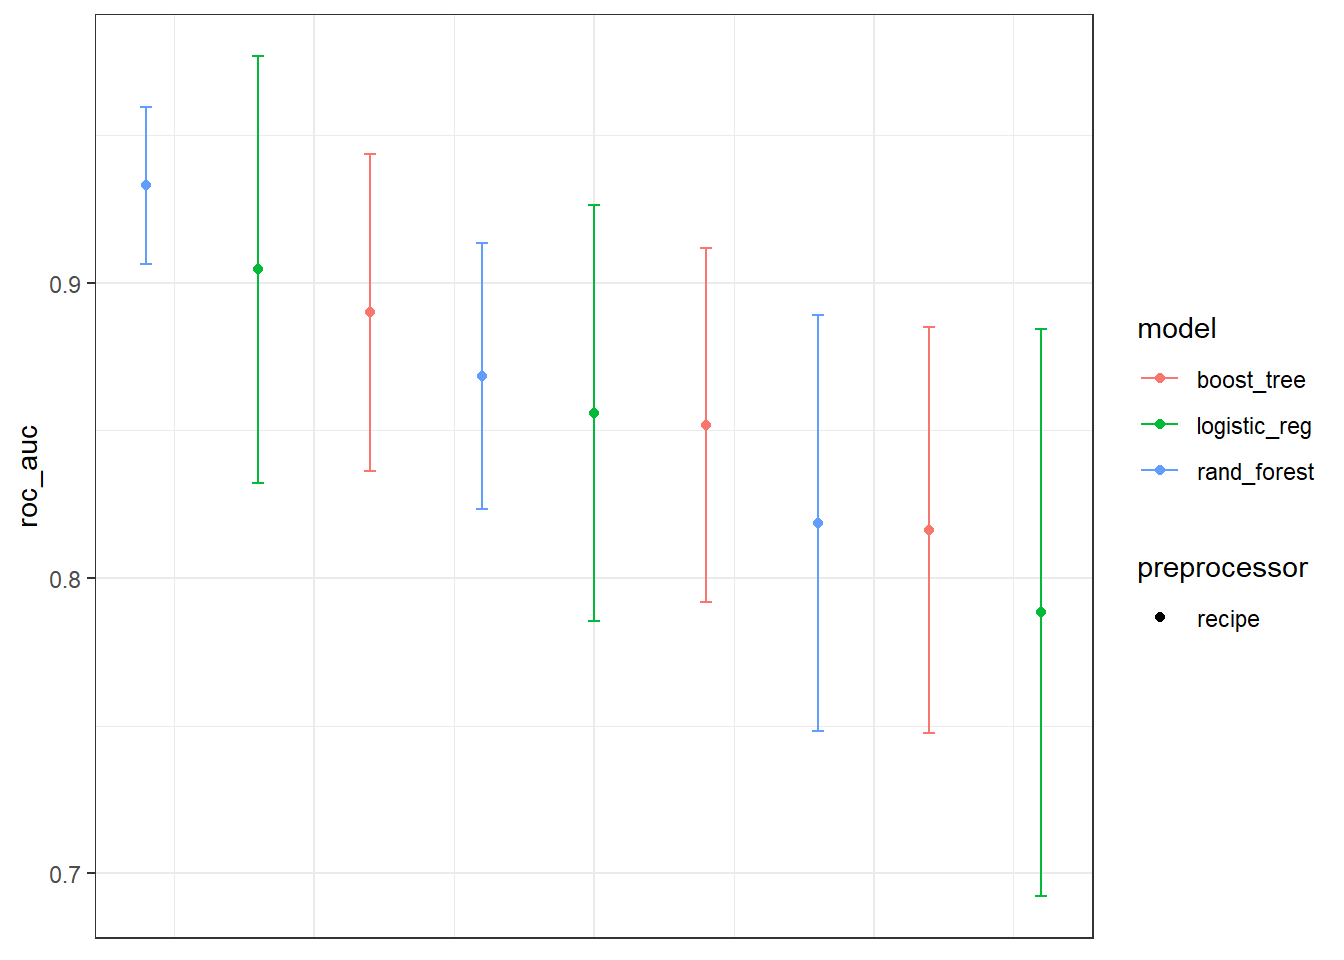
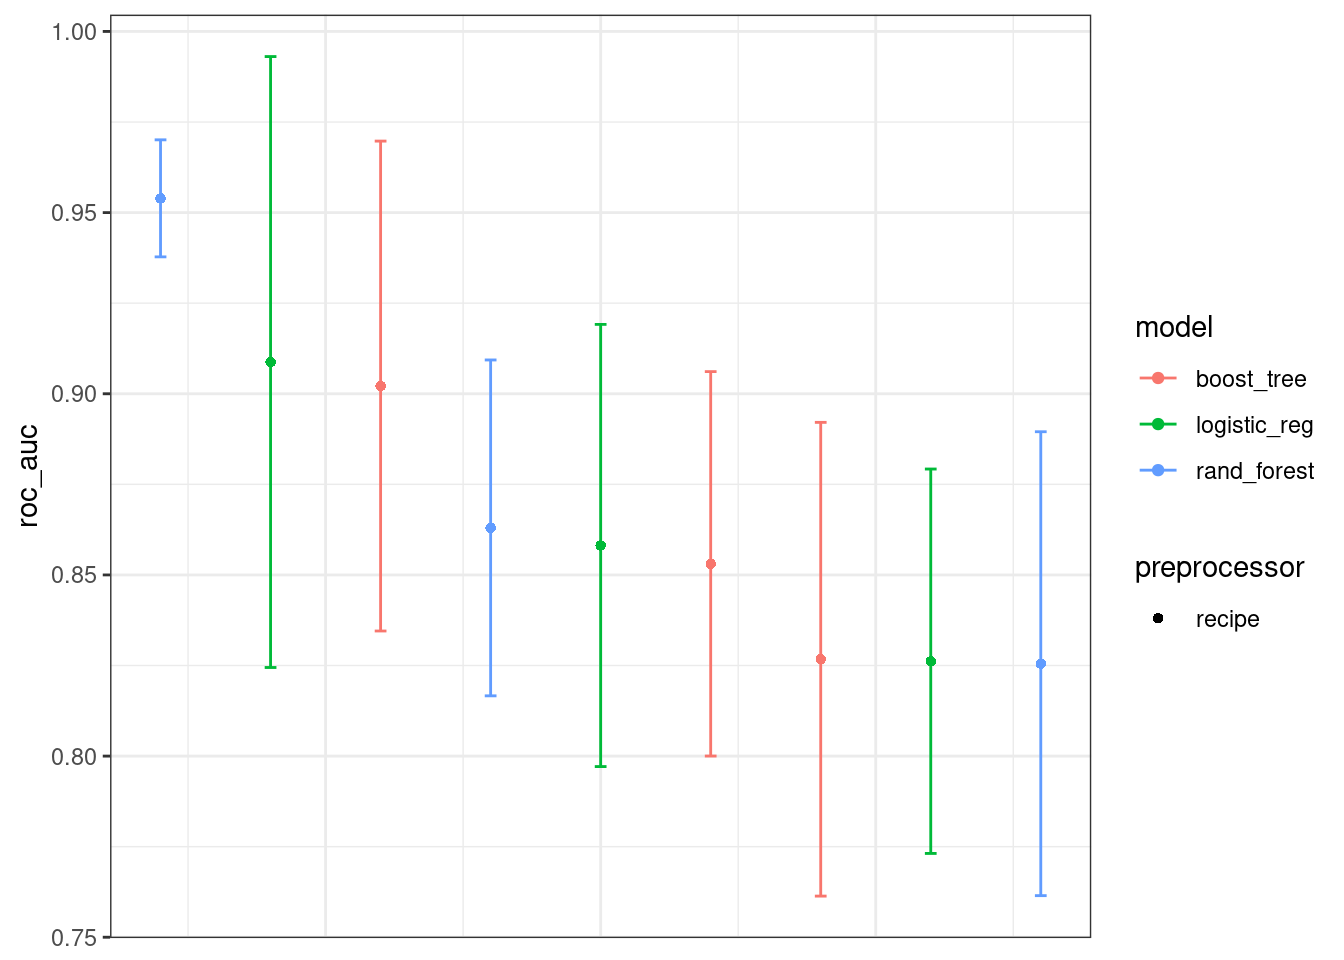
up

diff --git a/content/blog/pokemon_tidymodels/index.md b/content/blog/pokemon_tidymodels/index.md
@@ -78,13 +78,13 @@ df_model %>% glimpse()
 ```
 ## Rows: 801
 ## Columns: 7
-## $ is_legendary <fct> 0, 0, 0, 0, 0, 0, 0, 0, 0, 0, 0, 0, 0, 0, 0, 0, 0, 0, 0, ~
-## $ sp_attack    <dbl> 65, 80, 122, 60, 80, 159, 50, 65, 135, 20, 25, 90, 20, 25~
-## $ sp_defense   <dbl> 65, 80, 120, 50, 65, 115, 64, 80, 115, 20, 25, 80, 20, 25~
-## $ speed        <dbl> 45, 60, 80, 65, 80, 100, 43, 58, 78, 45, 30, 70, 50, 35, ~
-## $ attack       <dbl> 49, 62, 100, 52, 64, 104, 48, 63, 103, 30, 20, 45, 35, 25~
-## $ defense      <dbl> 49, 63, 123, 43, 58, 78, 65, 80, 120, 35, 55, 50, 30, 50,~
-## $ type1        <fct> grass, grass, grass, fire, fire, fire, water, water, wate~
+## $ is_legendary <fct> 0, 0, 0, 0, 0, 0, 0, 0, 0, 0, 0, 0, 0, 0, 0, 0, 0, 0, 0, …
+## $ sp_attack    <dbl> 65, 80, 122, 60, 80, 159, 50, 65, 135, 20, 25, 90, 20, 25…
+## $ sp_defense   <dbl> 65, 80, 120, 50, 65, 115, 64, 80, 115, 20, 25, 80, 20, 25…
+## $ speed        <dbl> 45, 60, 80, 65, 80, 100, 43, 58, 78, 45, 30, 70, 50, 35, …
+## $ attack       <dbl> 49, 62, 100, 52, 64, 104, 48, 63, 103, 30, 20, 45, 35, 25…
+## $ defense      <dbl> 49, 63, 123, 43, 58, 78, 65, 80, 120, 35, 55, 50, 30, 50,…
+## $ type1        <fct> grass, grass, grass, fire, fire, fire, water, water, wate…
 ```
 
 # Particionando a amostra e criando receitas
@@ -211,7 +211,7 @@ grid_output <-
 ```
 
 ```
-## v 1 of 9 tuning:     receita1_xgb_spec (1m 23.7s)
+## ✔ 1 of 9 tuning:     receita1_xgb_spec (1m 34.7s)
 ```
 
 ```
@@ -223,7 +223,7 @@ grid_output <-
 ```
 
 ```
-## v 2 of 9 tuning:     receita1_rf_spec (55s)
+## ✔ 2 of 9 tuning:     receita1_rf_spec (28s)
 ```
 
 ```
@@ -231,7 +231,7 @@ grid_output <-
 ```
 
 ```
-## v 3 of 9 tuning:     receita1_log_reg (2.5s)
+## ✔ 3 of 9 tuning:     receita1_log_reg (2.2s)
 ```
 
 ```
@@ -239,7 +239,7 @@ grid_output <-
 ```
 
 ```
-## v 4 of 9 tuning:     receita2_xgb_spec (1m 15.9s)
+## ✔ 4 of 9 tuning:     receita2_xgb_spec (1m 36.5s)
 ```
 
 ```
@@ -251,7 +251,7 @@ grid_output <-
 ```
 
 ```
-## v 5 of 9 tuning:     receita2_rf_spec (57.8s)
+## ✔ 5 of 9 tuning:     receita2_rf_spec (27.6s)
 ```
 
 ```
@@ -259,7 +259,7 @@ grid_output <-
 ```
 
 ```
-## v 6 of 9 tuning:     receita2_log_reg (2.9s)
+## ✔ 6 of 9 tuning:     receita2_log_reg (2.3s)
 ```
 
 ```
@@ -267,7 +267,13 @@ grid_output <-
 ```
 
 ```
-## v 7 of 9 tuning:     receita3_xgb_spec (1m 20.8s)
+## Warning in mclapply(argsList, FUN, mc.preschedule = preschedule, mc.set.seed
+## = set.seed, : scheduled core 2 did not deliver a result, all values of the job
+## will be affected
+```
+
+```
+## ✔ 7 of 9 tuning:     receita3_xgb_spec (1m 39.7s)
 ```
 
 ```
@@ -279,7 +285,13 @@ grid_output <-
 ```
 
 ```
-## v 8 of 9 tuning:     receita3_rf_spec (1m 0.1s)
+## Warning in mclapply(argsList, FUN, mc.preschedule = preschedule, mc.set.seed =
+## set.seed, : scheduled cores 3, 6 did not deliver results, all values of the jobs
+## will be affected
+```
+
+```
+## ✔ 8 of 9 tuning:     receita3_rf_spec (36.1s)
 ```
 
 ```
@@ -287,7 +299,7 @@ grid_output <-
 ```
 
 ```
-## v 9 of 9 tuning:     receita3_log_reg (2.9s)
+## ✔ 9 of 9 tuning:     receita3_log_reg (2.6s)
 ```
 # Explorando os resultados
 ***
@@ -330,12 +342,12 @@ grid_output %>%
 
 |wflow_id         |.metric |      mean|model       |
 |:----------------|:-------|---------:|:-----------|
-|receita3_rf_spec |roc_auc | 0.9329586|rand_forest |
-|receita3_rf_spec |roc_auc | 0.9312706|rand_forest |
-|receita3_rf_spec |roc_auc | 0.9259110|rand_forest |
-|receita3_rf_spec |roc_auc | 0.9257240|rand_forest |
-|receita3_rf_spec |roc_auc | 0.9256944|rand_forest |
-|receita3_rf_spec |roc_auc | 0.9250815|rand_forest |
+|receita3_rf_spec |roc_auc | 0.9539294|rand_forest |
+|receita3_rf_spec |roc_auc | 0.9515351|rand_forest |
+|receita3_rf_spec |roc_auc | 0.9486467|rand_forest |
+|receita3_rf_spec |roc_auc | 0.9458058|rand_forest |
+|receita3_rf_spec |roc_auc | 0.9414859|rand_forest |
+|receita3_rf_spec |roc_auc | 0.9368465|rand_forest |
 
 Nesse caso, o melhor modelo foi o `receita3_rf_spec`, que teve maior AUC média. Lembrando, este é um modelo do tipo *random forest* que leva em consideração todos os dados que selecionei da tabela, com normalização das variáveis contínuas e *downsampling* da variável de resposta.
 
@@ -356,31 +368,31 @@ grid_output %>%
 
 | mtry| min_n|.metric |.estimator |      mean|  n|   std_err|.config               |
 |----:|-----:|:-------|:----------|---------:|--:|---------:|:---------------------|
-|    1|    15|roc_auc |binary     | 0.9329586| 10| 0.0161039|Preprocessor1_Model23 |
-|    4|     5|roc_auc |binary     | 0.9312706| 10| 0.0257369|Preprocessor1_Model10 |
-|    5|     5|roc_auc |binary     | 0.9259110| 10| 0.0273312|Preprocessor1_Model02 |
-|    7|     2|roc_auc |binary     | 0.9257240| 10| 0.0289623|Preprocessor1_Model19 |
-|    3|    24|roc_auc |binary     | 0.9256944| 10| 0.0256747|Preprocessor1_Model06 |
-|    2|    14|roc_auc |binary     | 0.9250815| 10| 0.0260070|Preprocessor1_Model13 |
-|   19|     9|roc_auc |binary     | 0.9232048| 10| 0.0223629|Preprocessor1_Model11 |
-|    9|    11|roc_auc |binary     | 0.9222557| 10| 0.0271802|Preprocessor1_Model05 |
-|   10|     7|roc_auc |binary     | 0.9217801| 10| 0.0270950|Preprocessor1_Model22 |
-|   21|    12|roc_auc |binary     | 0.9215099| 10| 0.0238706|Preprocessor1_Model20 |
-|    6|    32|roc_auc |binary     | 0.9192745| 10| 0.0270269|Preprocessor1_Model18 |
-|   20|    17|roc_auc |binary     | 0.9191940| 10| 0.0236280|Preprocessor1_Model15 |
-|    7|    22|roc_auc |binary     | 0.9181813| 10| 0.0285707|Preprocessor1_Model16 |
-|   17|    19|roc_auc |binary     | 0.9177494| 10| 0.0252648|Preprocessor1_Model07 |
-|   13|    28|roc_auc |binary     | 0.9171877| 10| 0.0269533|Preprocessor1_Model04 |
-|   19|    25|roc_auc |binary     | 0.9166010| 10| 0.0250799|Preprocessor1_Model08 |
-|    8|    30|roc_auc |binary     | 0.9165371| 10| 0.0286453|Preprocessor1_Model17 |
-|   14|    16|roc_auc |binary     | 0.9163817| 10| 0.0270514|Preprocessor1_Model21 |
-|   16|    26|roc_auc |binary     | 0.9136958| 10| 0.0299527|Preprocessor1_Model03 |
-|   11|    33|roc_auc |binary     | 0.9120525| 10| 0.0285564|Preprocessor1_Model09 |
-|   15|    21|roc_auc |binary     | 0.9113587| 10| 0.0298925|Preprocessor1_Model14 |
-|   11|    38|roc_auc |binary     | 0.9100498| 10| 0.0284654|Preprocessor1_Model12 |
-|   17|    35|roc_auc |binary     | 0.9085953| 10| 0.0269584|Preprocessor1_Model25 |
-|   21|    37|roc_auc |binary     | 0.9058673| 10| 0.0255826|Preprocessor1_Model01 |
-|   12|    39|roc_auc |binary     | 0.9050773| 10| 0.0289741|Preprocessor1_Model24 |
+|    7|     2|roc_auc |binary     | 0.9539294|  7| 0.0098178|Preprocessor1_Model19 |
+|    7|    22|roc_auc |binary     | 0.9515351|  8| 0.0121038|Preprocessor1_Model16 |
+|   19|    25|roc_auc |binary     | 0.9486467|  8| 0.0138041|Preprocessor1_Model08 |
+|   19|     9|roc_auc |binary     | 0.9458058|  7| 0.0122021|Preprocessor1_Model11 |
+|   16|    26|roc_auc |binary     | 0.9414859|  7| 0.0131308|Preprocessor1_Model03 |
+|   12|    39|roc_auc |binary     | 0.9368465|  8| 0.0165164|Preprocessor1_Model24 |
+|   17|    19|roc_auc |binary     | 0.9325774|  8| 0.0302957|Preprocessor1_Model07 |
+|   20|    17|roc_auc |binary     | 0.9310903|  8| 0.0303220|Preprocessor1_Model15 |
+|   21|    12|roc_auc |binary     | 0.9291851|  8| 0.0301762|Preprocessor1_Model20 |
+|    1|    15|roc_auc |binary     | 0.9204132|  8| 0.0409642|Preprocessor1_Model23 |
+|   13|    28|roc_auc |binary     | 0.9172246|  8| 0.0401992|Preprocessor1_Model04 |
+|   11|    38|roc_auc |binary     | 0.9152635|  8| 0.0446689|Preprocessor1_Model12 |
+|    4|     5|roc_auc |binary     | 0.9116951|  7| 0.0429818|Preprocessor1_Model10 |
+|   14|    16|roc_auc |binary     | 0.9089189|  7| 0.0408479|Preprocessor1_Model21 |
+|   11|    33|roc_auc |binary     | 0.9082606|  8| 0.0401483|Preprocessor1_Model09 |
+|   17|    35|roc_auc |binary     | 0.9078784|  8| 0.0384864|Preprocessor1_Model25 |
+|    8|    30|roc_auc |binary     | 0.9078225|  8| 0.0420805|Preprocessor1_Model17 |
+|    5|     5|roc_auc |binary     | 0.9077732|  7| 0.0452007|Preprocessor1_Model02 |
+|   21|    37|roc_auc |binary     | 0.9070498|  8| 0.0368612|Preprocessor1_Model01 |
+|    9|    11|roc_auc |binary     | 0.9059694|  7| 0.0453481|Preprocessor1_Model05 |
+|    2|    14|roc_auc |binary     | 0.9013566|  7| 0.0470592|Preprocessor1_Model13 |
+|   10|     7|roc_auc |binary     | 0.9006260|  7| 0.0437577|Preprocessor1_Model22 |
+|    6|    32|roc_auc |binary     | 0.9003536|  7| 0.0495620|Preprocessor1_Model18 |
+|   15|    21|roc_auc |binary     | 0.9000487|  7| 0.0418261|Preprocessor1_Model14 |
+|    3|    24|roc_auc |binary     | 0.8996576|  7| 0.0519144|Preprocessor1_Model06 |
 
 Alternativamente poderia simplesmente selecionar o melhor conjunto de hiperparâmetros usando a função `select_best`:
 
@@ -397,7 +409,7 @@ grid_output %>%
 
 | mtry| min_n|.config               |
 |----:|-----:|:---------------------|
-|    1|    15|Preprocessor1_Model23 |
+|    7|     2|Preprocessor1_Model19 |
 
 Mas nem sempre faz sentido usar a configuração mais performática no treino, pois ela pode estar performando bem por *overfitting*!
 
@@ -437,23 +449,13 @@ collect_metrics(boosting_test_results)
 ```
 
 ```
-## # A tibble: 2 x 4
+## # A tibble: 2 × 4
 ##   .metric  .estimator .estimate .config             
 ##   <chr>    <chr>          <dbl> <chr>               
-## 1 accuracy binary         0.876 Preprocessor1_Model1
-## 2 roc_auc  binary         0.922 Preprocessor1_Model1
+## 1 accuracy binary         0.891 Preprocessor1_Model1
+## 2 roc_auc  binary         0.941 Preprocessor1_Model1
 ```
 
-E, caso eu queira seguir com esse modelo, posso ajustá-lo à partição de teste para utilizá-lo em minhas previsões:
-
-
-```r
-modelo <- 
-grid_output %>% 
-   extract_workflow("receita3_rf_spec") %>% 
-   finalize_workflow(best_results) %>% 
-  fit(df_test)
-```
 
 # Considerações finais
 ***
